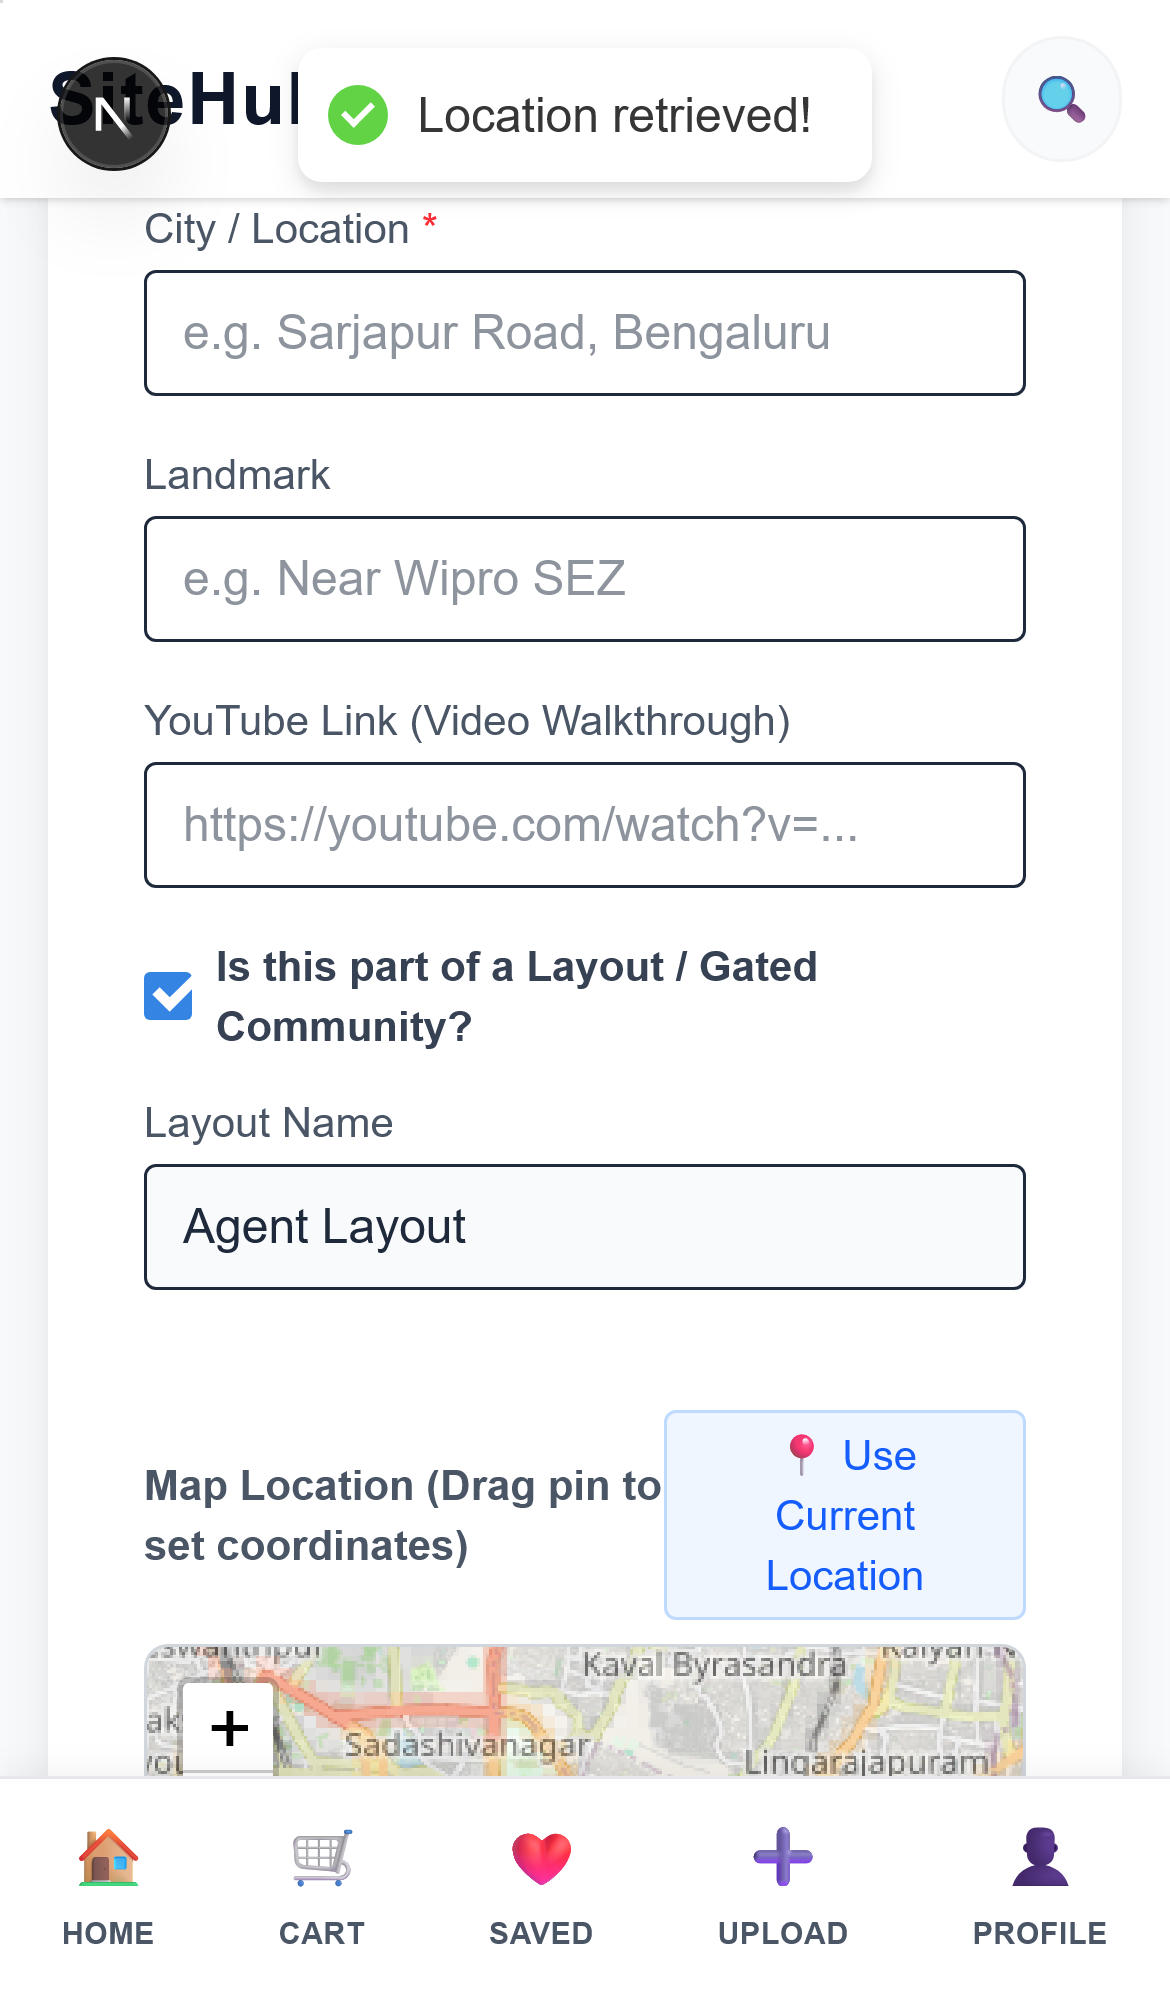
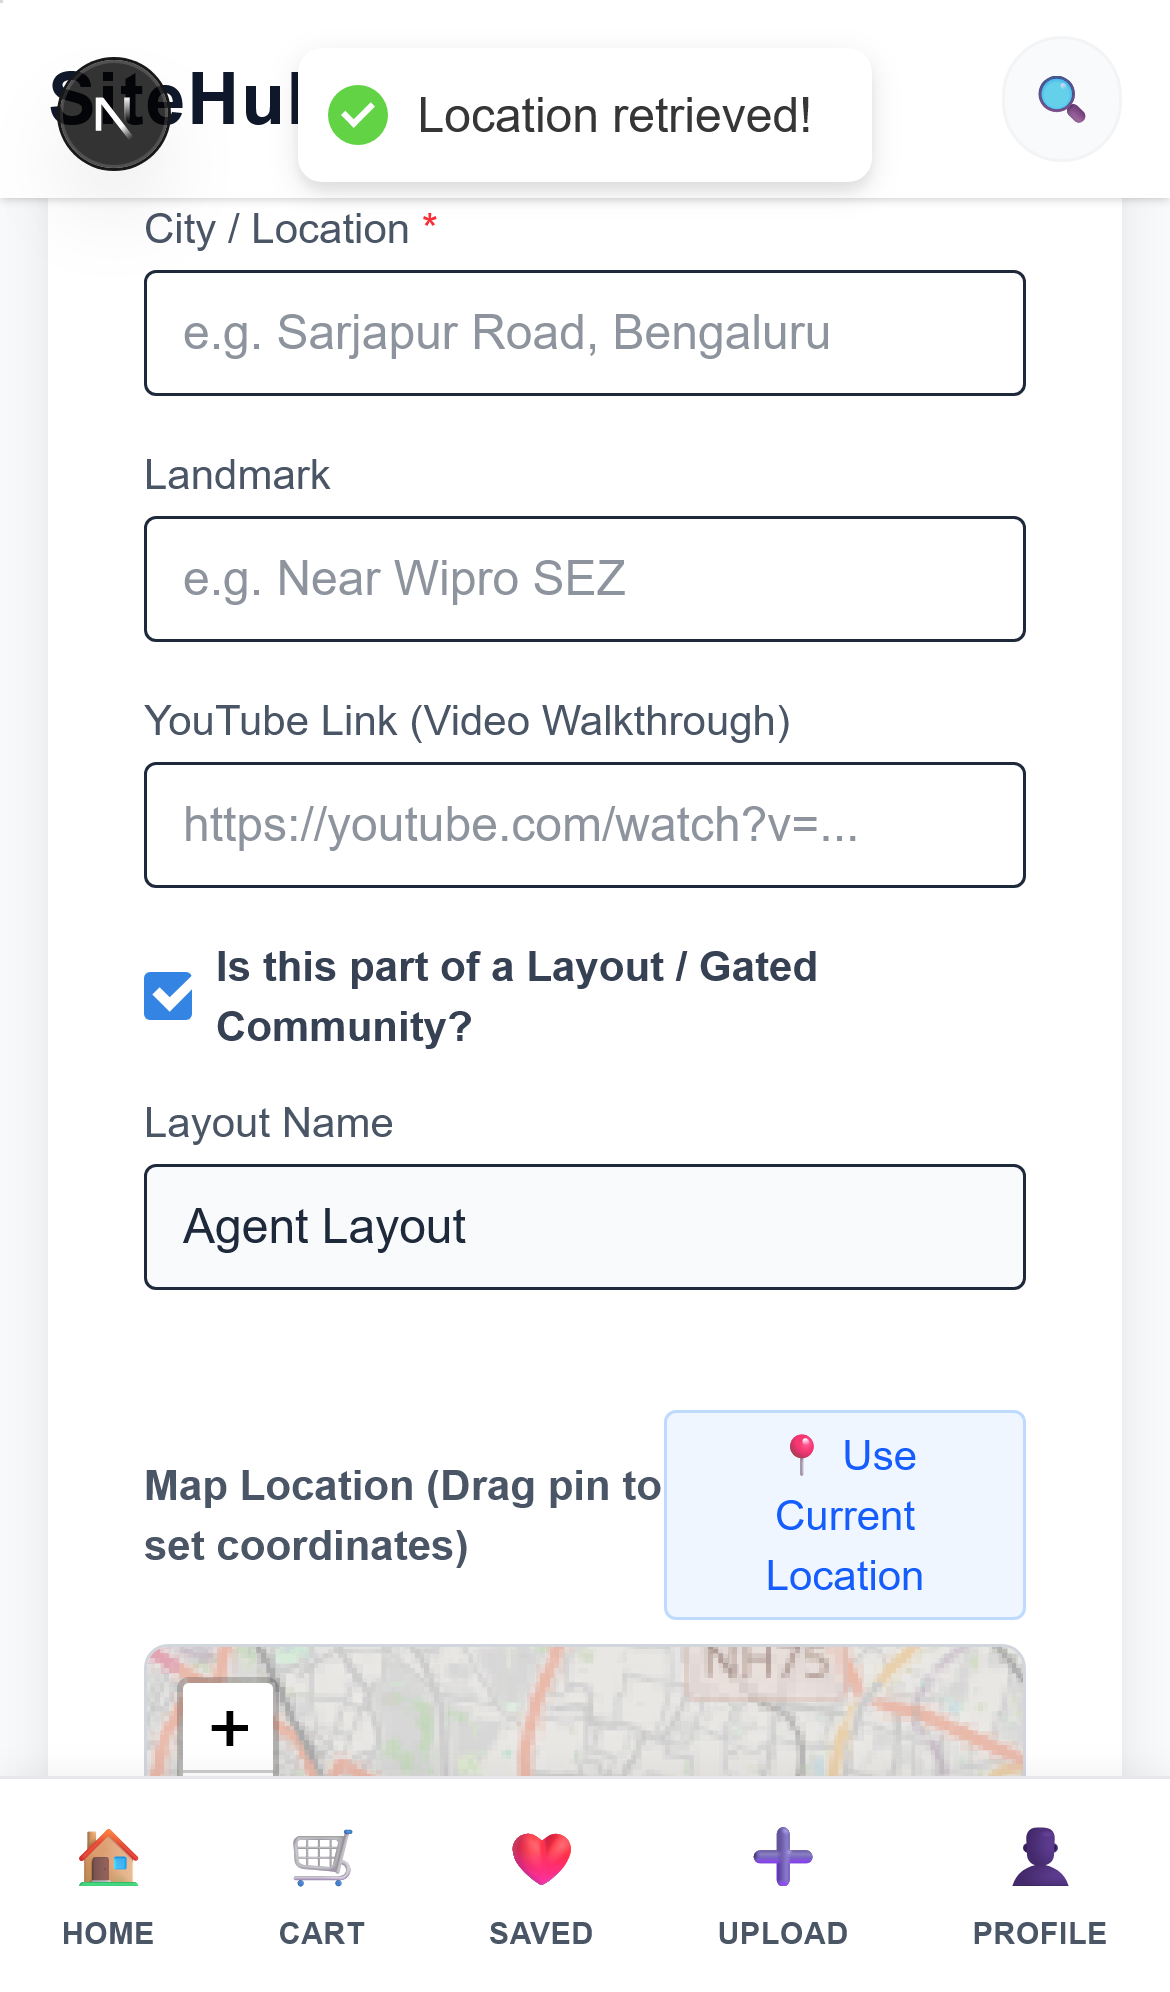
perf: optimize frontend rendering and backend api queries

Changed region(s): [[0.1231, 0.8092, 0.8923, 0.9026]]

diff --git a/frontend/app/page.tsx b/frontend/app/page.tsx
@@ -267,15 +267,15 @@ function HomeContent() {
     return () => clearTimeout(t);
   }, [appliedSearch, computedFilters, doFetch]);
 
-  const handleSearchClick = () => setAppliedSearch(inputValue);
+  const handleSearchClick = useCallback(() => setAppliedSearch(inputValue), [inputValue]);
 
-  const handleLoadMore = () => {
+  const handleLoadMore = useCallback(() => {
     const next = page + 1;
     setPage(next);
     doFetch(appliedSearch, computedFilters, next, true);
-  };
+  }, [page, appliedSearch, computedFilters, doFetch]);
 
-  const clearAllFilters = () => {
+  const clearAllFilters = useCallback(() => {
     setSelectedLocations([]);
     setSelectedPrices([]);
     setSelectedAreas([]);
@@ -286,12 +286,11 @@ function HomeContent() {
     setInputValue("");
     setLocationSearch("");
     setIsMobileFilterOpen(false);
-  };
+  }, []);
 
-  // Helper for toggling array state
-  const toggleSelection = (setter: React.Dispatch<React.SetStateAction<string[]>>, value: string) => {
+  const toggleSelection = useCallback((setter: React.Dispatch<React.SetStateAction<string[]>>, value: string) => {
     setter(prev => prev.includes(value) ? prev.filter(v => v !== value) : [...prev, value]);
-  };
+  }, []);
 
   const activeFilterCount = useMemo(() => {
     return selectedLocations.length + selectedPrices.length + selectedAreas.length + selectedFacings.length + (isLayoutFilter ? 1 : 0);

diff --git a/frontend/app/components/SiteCard.tsx b/frontend/app/components/SiteCard.tsx
@@ -2,7 +2,7 @@ import Image from 'next/image';
 import Link from 'next/link';
 import { useWishlist } from '../context/WishlistContext';
 import { useCart } from '../context/CartContext';
-import { useState, useRef } from 'react';
+import { useState, useRef, memo } from 'react';
 import toast from 'react-hot-toast';
 
 interface SiteCardProps {
@@ -28,7 +28,7 @@ interface SiteCardProps {
   };
 }
 
-export default function SiteCard({ site }: SiteCardProps) {
+const SiteCard = memo(function SiteCard({ site }: SiteCardProps) {
   const { toggleWishlist, isInWishlist } = useWishlist();
   const { addToCart, isInCart } = useCart();
   
@@ -309,4 +309,6 @@ export default function SiteCard({ site }: SiteCardProps) {
       </div>
     </div>
   );
-}
+});
+
+export default SiteCard;

diff --git a/api/views.py b/api/views.py
@@ -240,6 +240,19 @@ def filter_sites_api(request):
     sort = request.GET.get("sort")
     is_layout = request.GET.get("is_layout")
     boost_location = request.GET.get("boost_location", "").strip()
+    page = int(request.GET.get("page", 1))
+
+    # ── CACHING: Default Homepage ──
+    has_filters = any([location, search, min_price, max_price, min_area, max_area, facing, site_code, is_layout])
+    has_sort = bool(sort)
+    has_boost = bool(boost_location)
+    is_default_query = not has_filters and not has_sort and not has_boost and page == 1
+
+    if is_default_query:
+        from django.core.cache import cache
+        cached_response = cache.get("default_homepage_sites")
+        if cached_response:
+            return Response(cached_response)
 
     # ── Build the $match filter query ──
     # IMPORTANT: In aggregation pipelines, we cannot use compiled Python
@@ -348,12 +361,19 @@ def filter_sites_api(request):
     sites = hydrate_sites(request, list(site_collection.aggregate(pipeline)))
 
     serializer = SiteSerializer(sites, many=True)
-    return Response({
+    
+    response_data = {
         "results": serializer.data,
         "total": total,
         "page": page,
         "limit": limit
-    })
+    }
+
+    if is_default_query:
+        from django.core.cache import cache
+        cache.set("default_homepage_sites", response_data, 300) # 5 minutes cache
+
+    return Response(response_data)
 
 
 # --------------------------------------------------

diff --git a/listings/management/commands/create_indexes.py b/listings/management/commands/create_indexes.py
@@ -1,0 +1,28 @@
+from django.core.management.base import BaseCommand
+from listings.mongo import site_collection, locations_collection
+import pymongo
+
+class Command(BaseCommand):
+    help = 'Creates MongoDB indexes for faster querying'
+
+    def handle(self, *args, **options):
+        self.stdout.write("Creating MongoDB indexes...")
+        
+        # Indexes for site_collection
+        # 1. Compound index for default queries (status, is_deleted)
+        site_collection.create_index([("status", pymongo.ASCENDING), ("is_deleted", pymongo.ASCENDING)])
+        
+        # 2. Indexes for frequently filtered fields
+        site_collection.create_index("location_id")
+        site_collection.create_index("price")
+        site_collection.create_index("area")
+        site_collection.create_index("facing")
+        site_collection.create_index("is_layout")
+        
+        # 3. Index for sorting
+        site_collection.create_index([("created_at", pymongo.DESCENDING)])
+        
+        # Indexes for locations_collection
+        locations_collection.create_index("city")
+        
+        self.stdout.write(self.style.SUCCESS('Successfully created MongoDB indexes!'))
